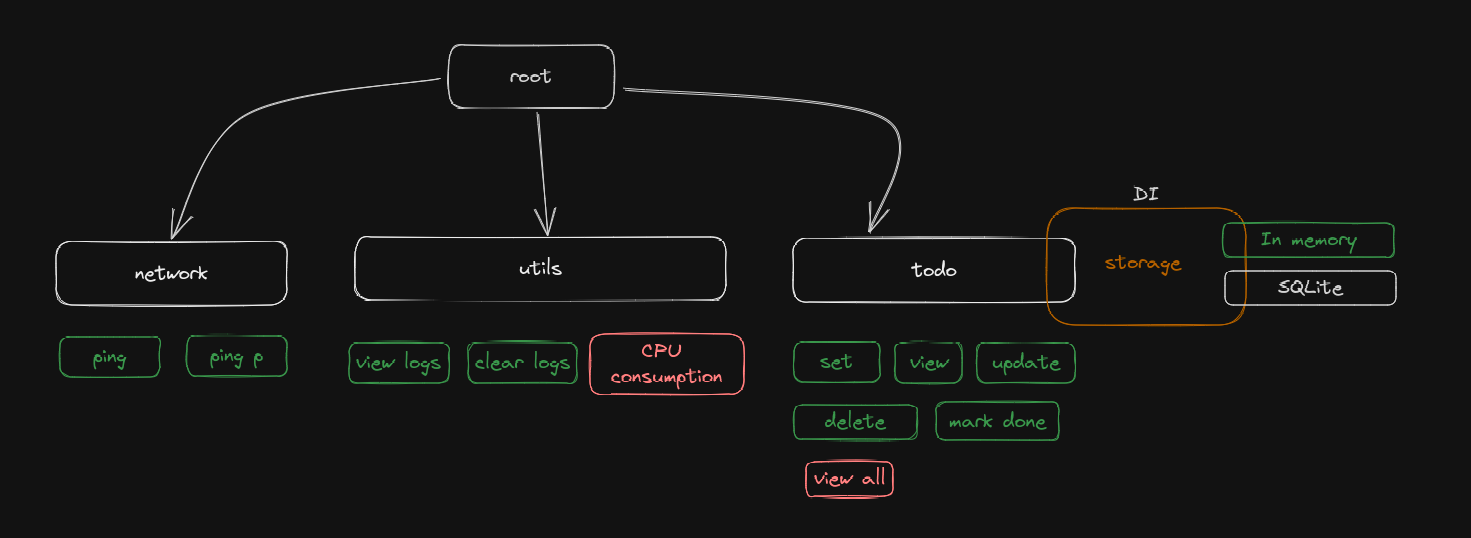
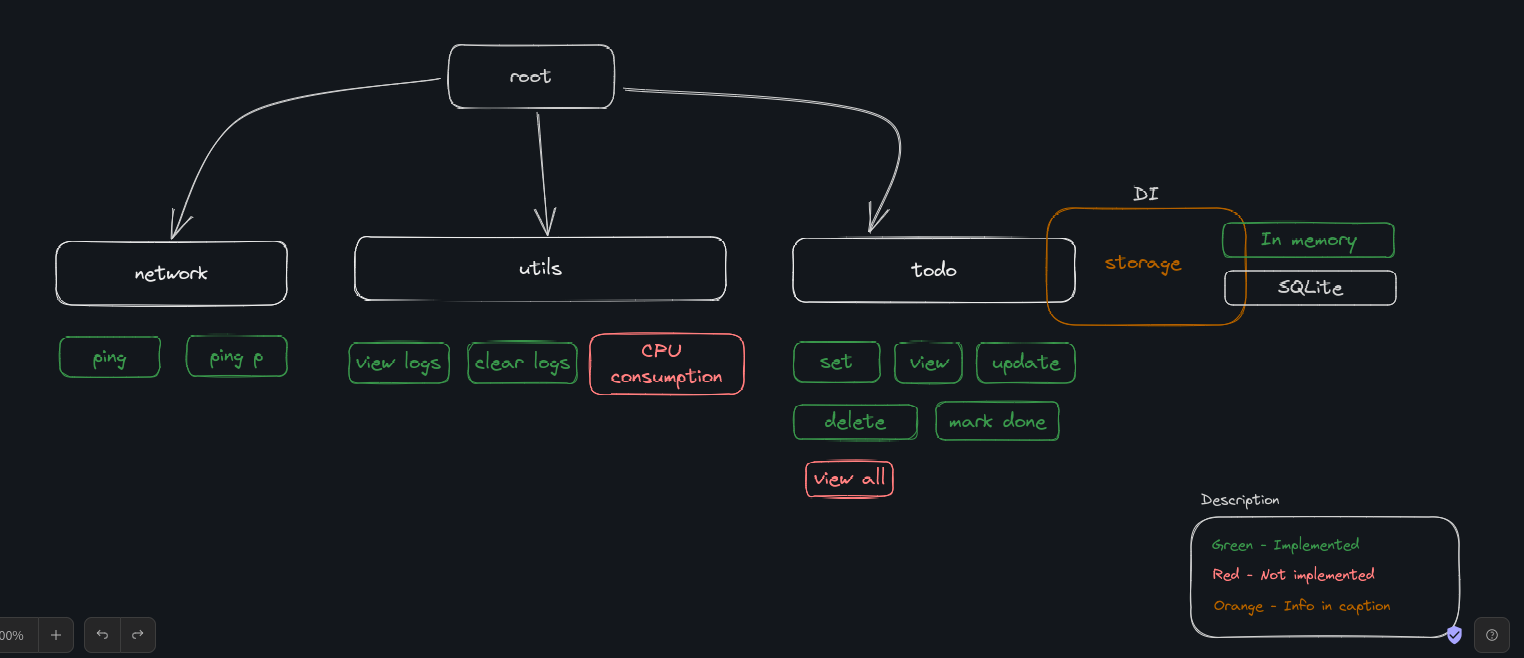
added updated HLD

diff --git a/README.md b/README.md
@@ -1,5 +1,4 @@
-mind map - https://excalidraw.com/#json=kaLMV2vtMPfD2QpMrx3Zw,XQc3oVPH389be1WbvbSLZw
+mind map - https://excalidraw.com/#json=Z18_QRHk502gfPpuEmwDT,YTDGX2ULzex3uWx0IfnkKg
 
 
 ![HLD](/static/hld.png)
-
